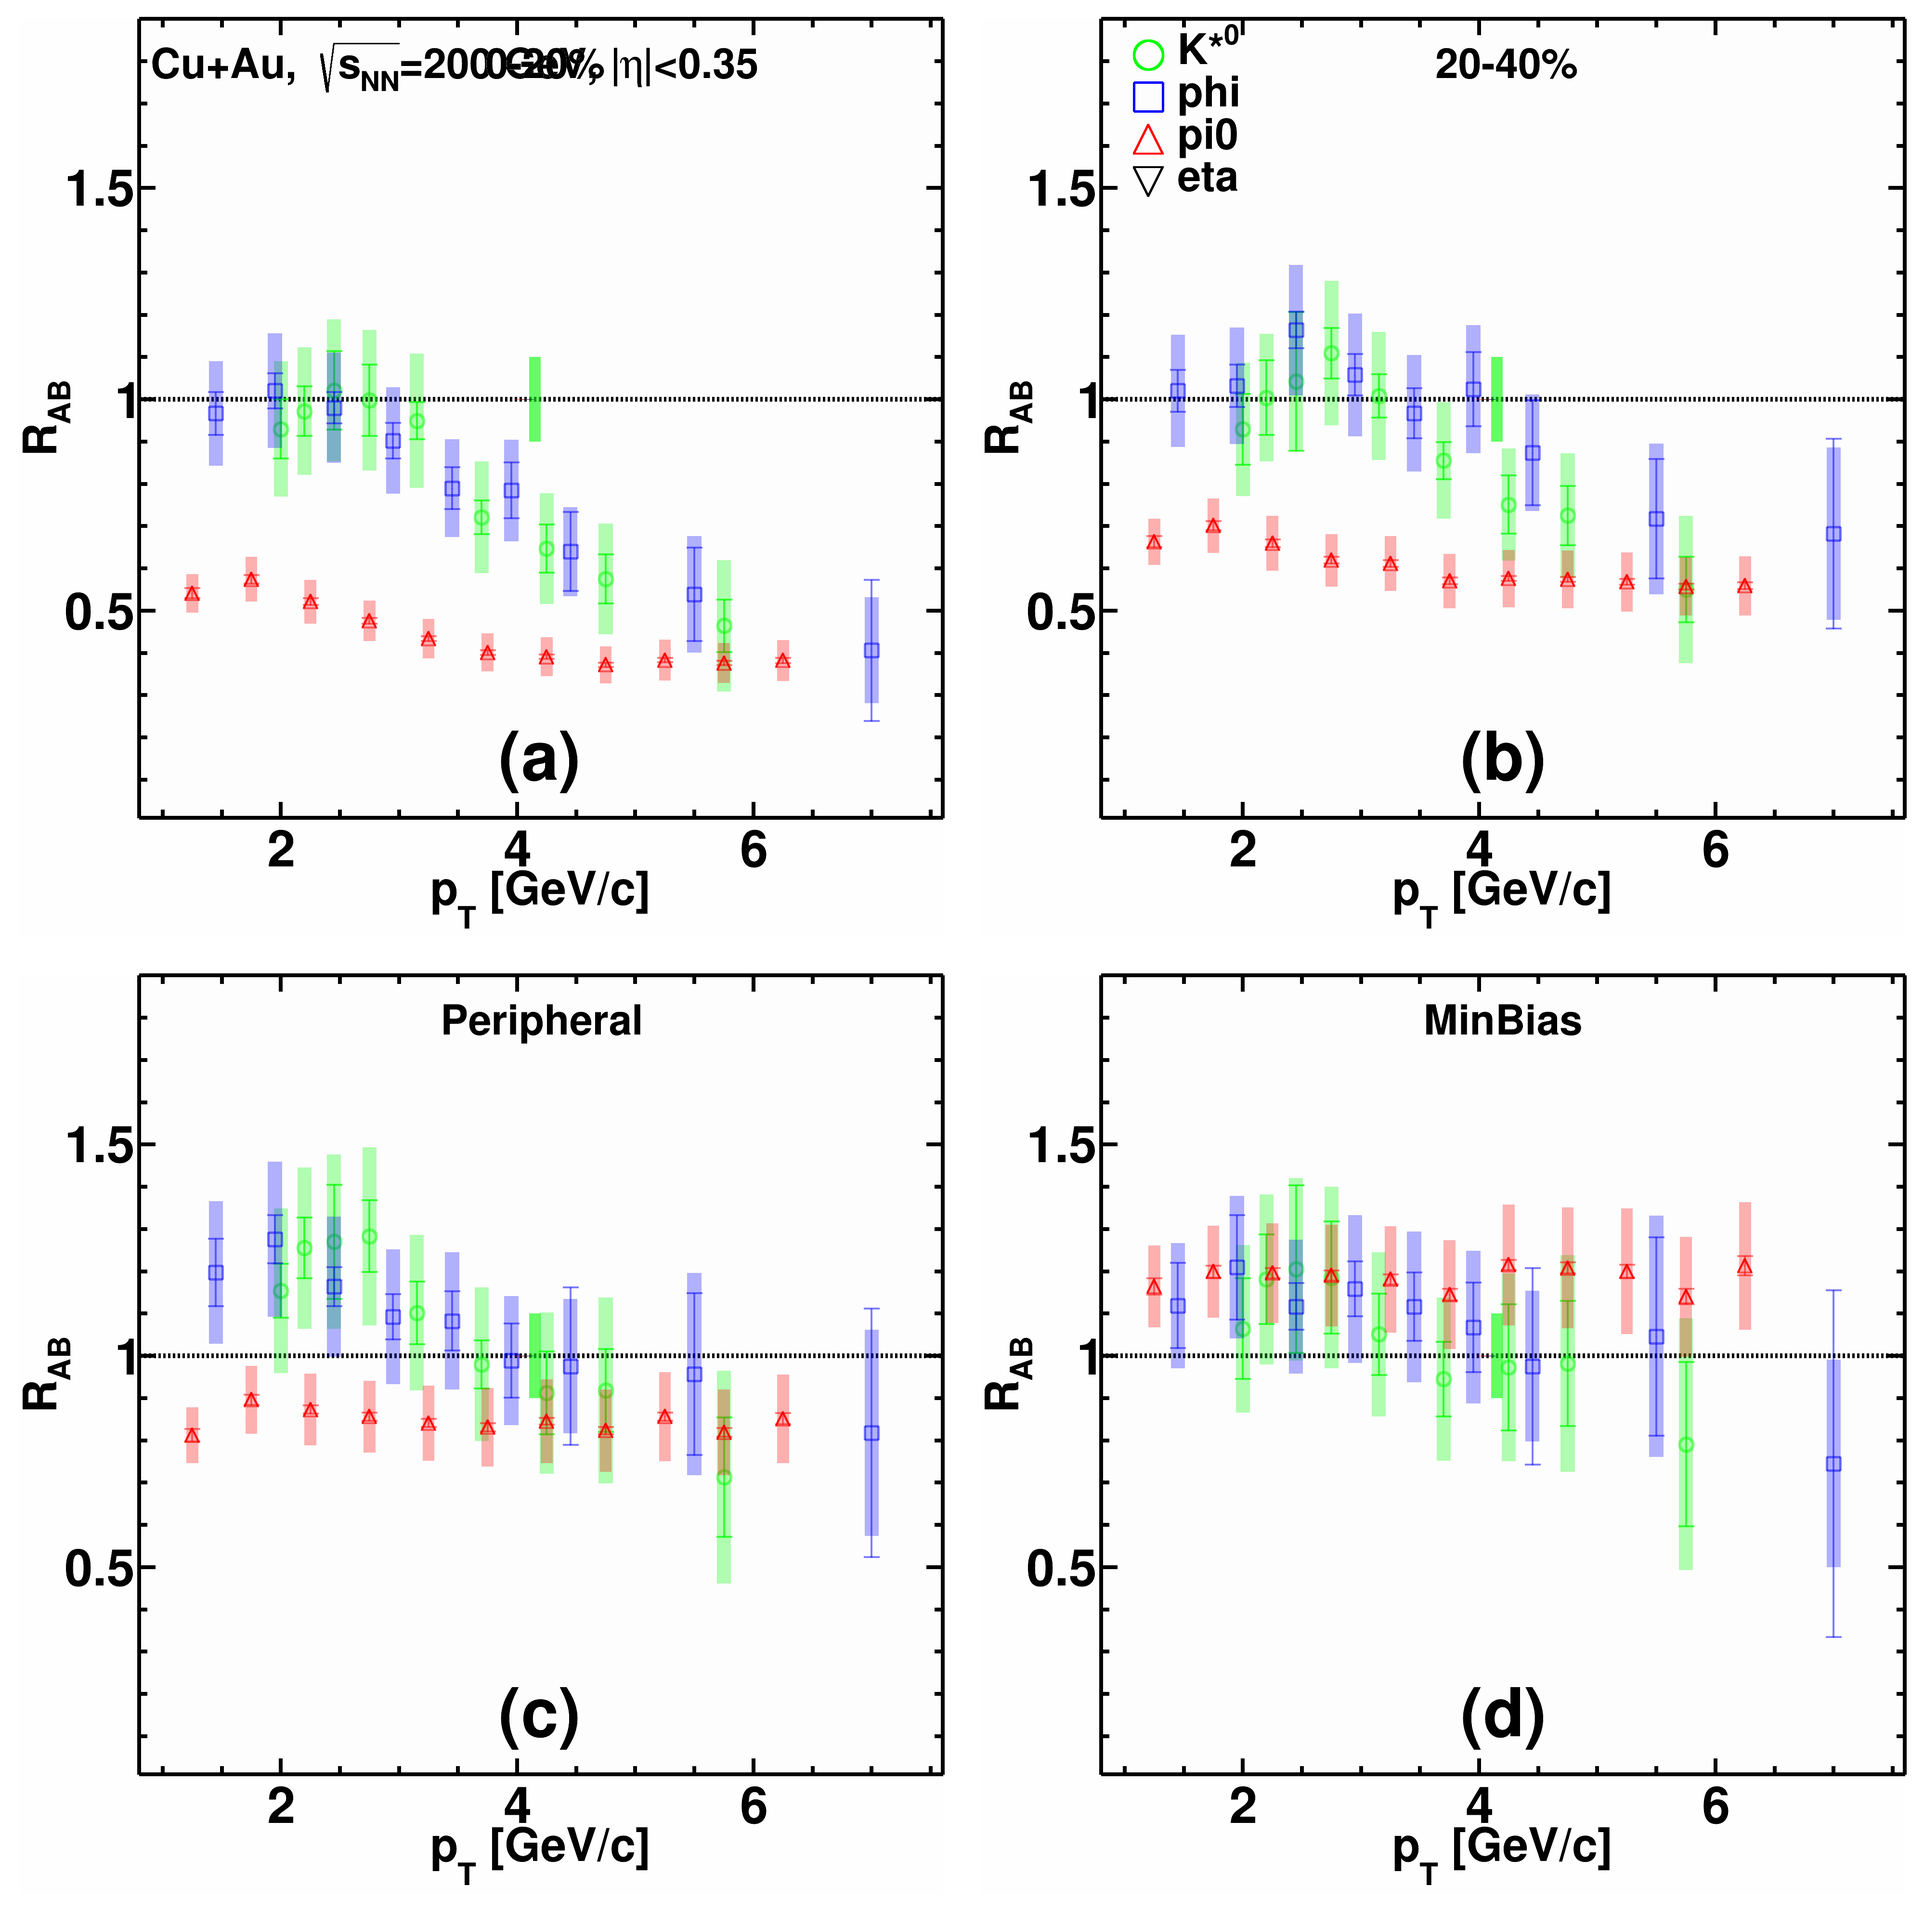
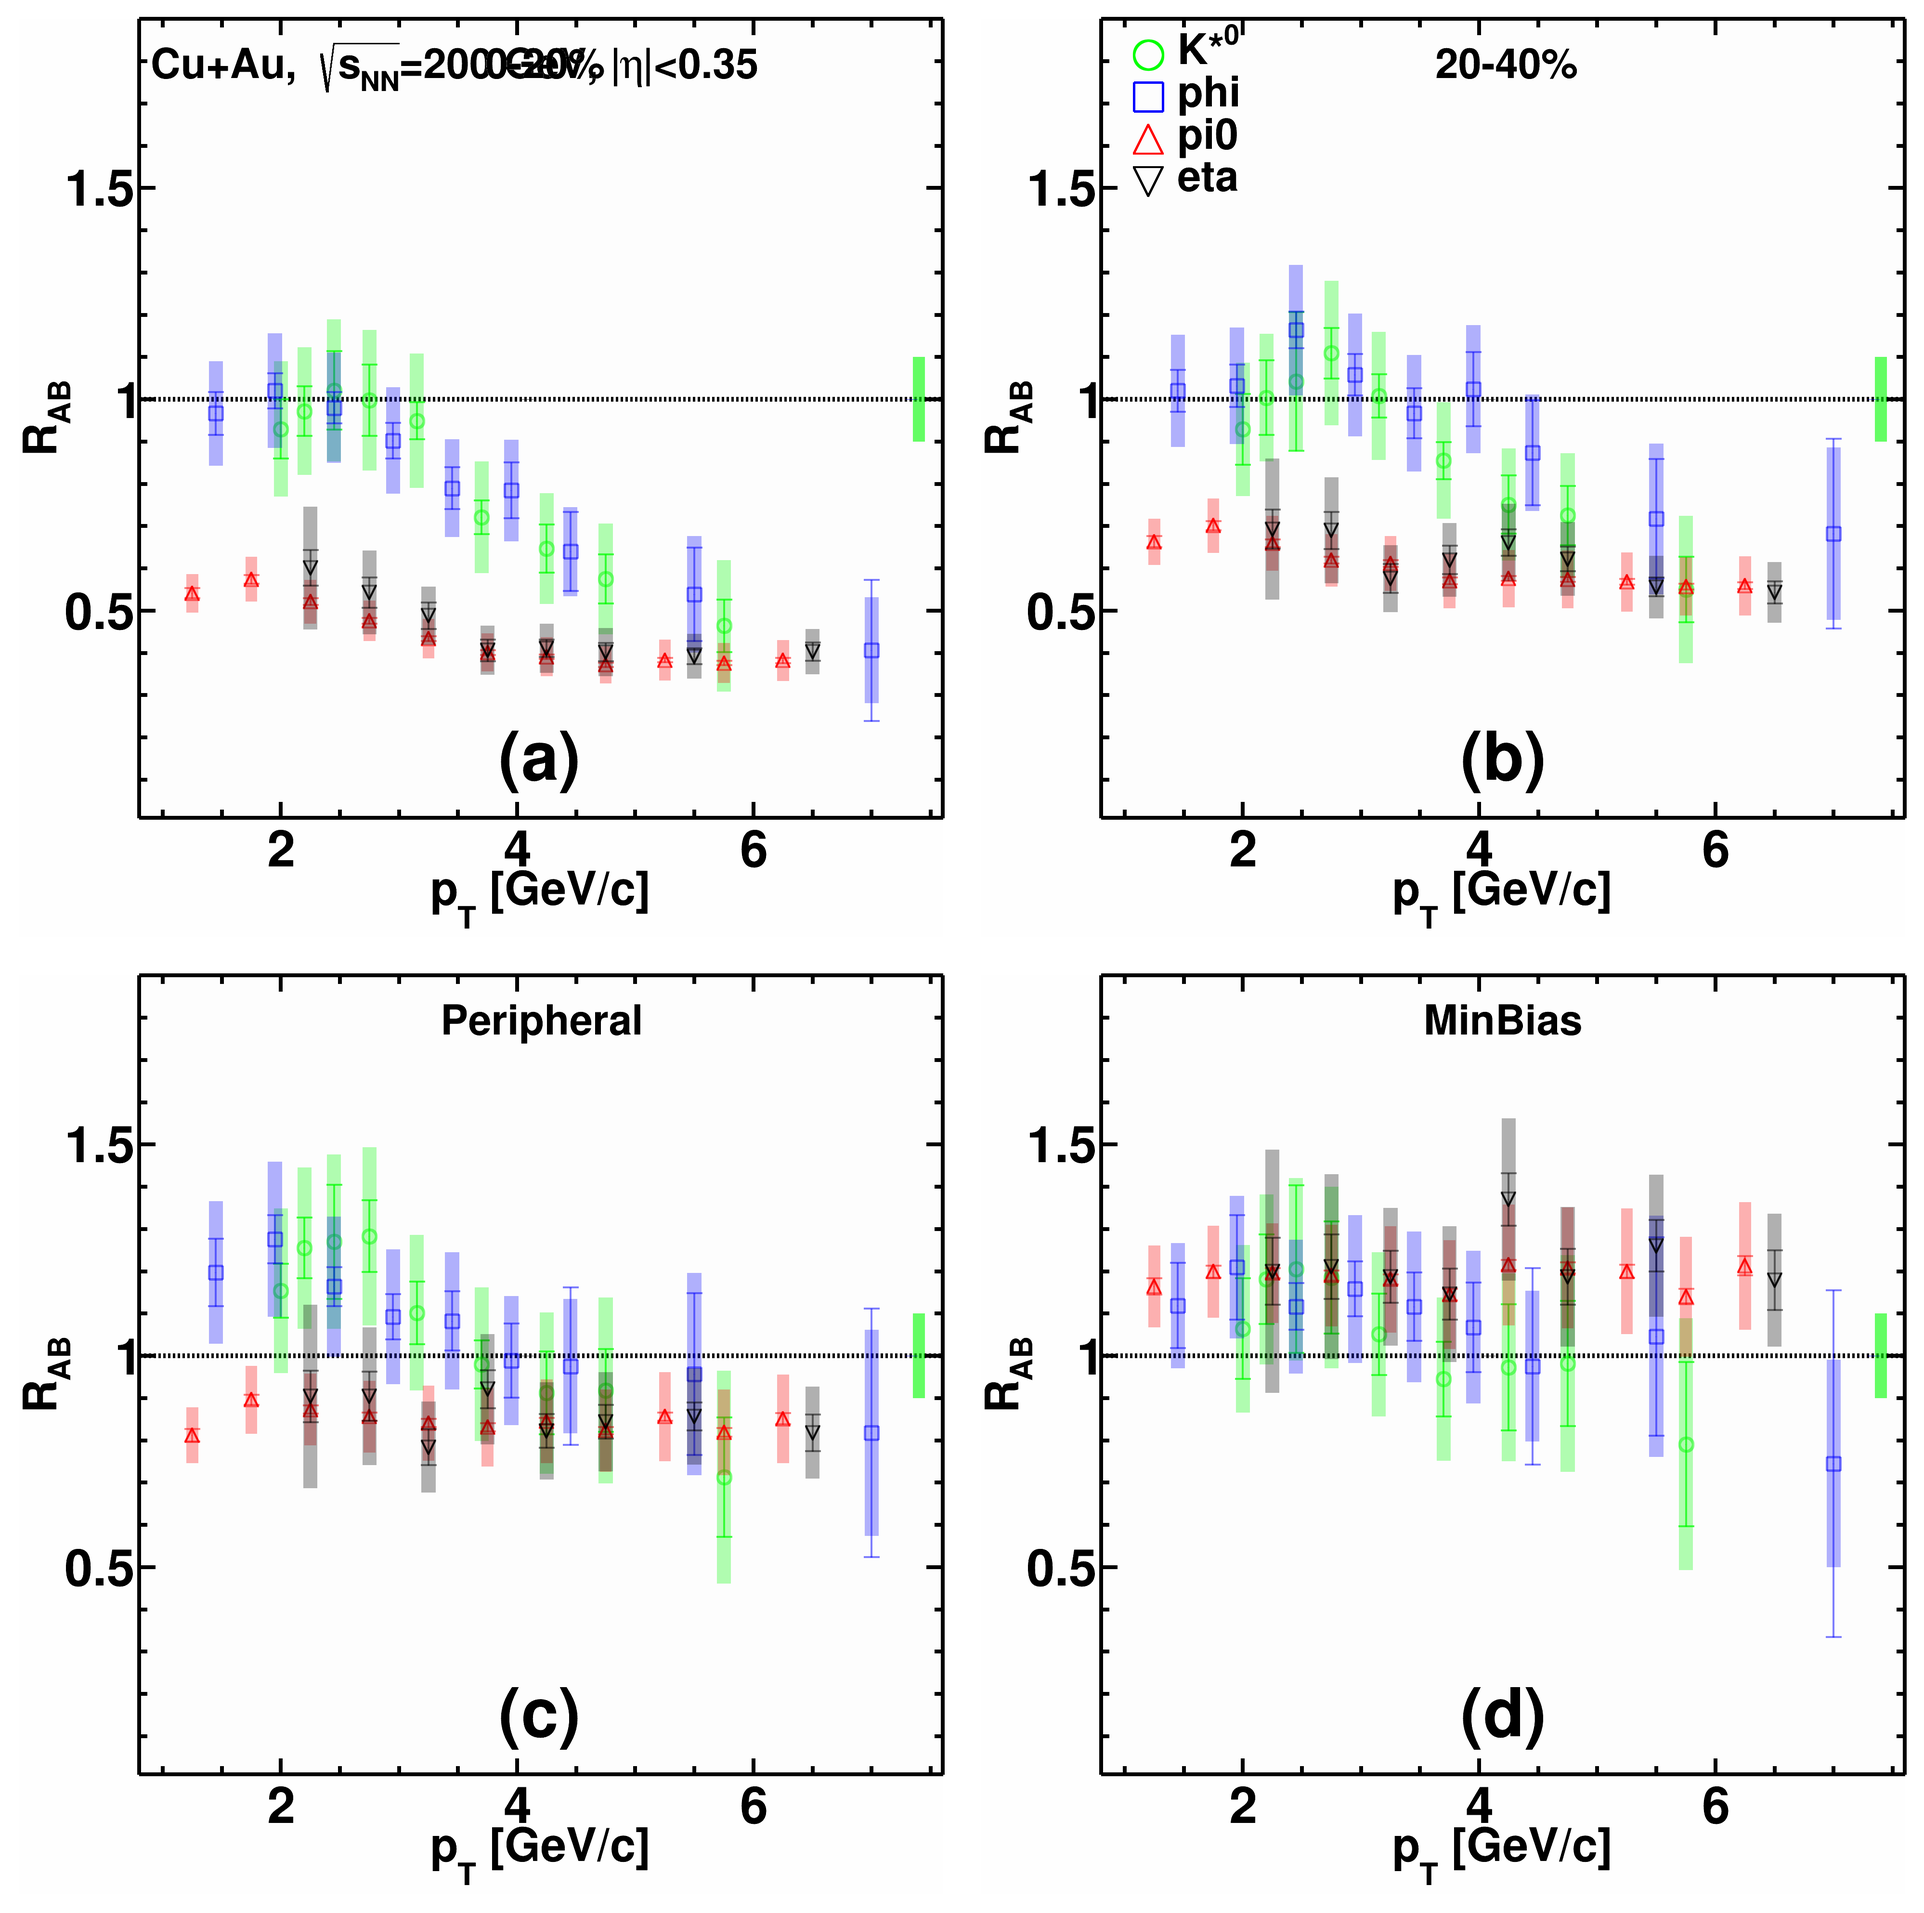
change particals (get for eta) change number of eta (in plotter) change rab_cuau_phi_pi_eta.png

diff --git a/Particles.cpp b/Particles.cpp
@@ -63,6 +63,10 @@ public:
 
     void set_independent_var_pi0(int i);
 
+    void get_rab_eta_cuau();
+    void get_rab_eta_uu();
+    void set_independent_var_eta(int i);
+
     void set_sys_errors();
 
     void get_integrated_rab();
@@ -167,6 +171,15 @@ Particles::Particles(const TString& part, int c, int n, Color_t col, Style_t mar
     set_independent_var_pi0(4);
     get_rab_pi0_pal();
   }
+
+  else if (part == "rab_eta_cuau") {
+      set_independent_var_eta(0);
+      get_rab_eta_cuau();
+  } else if (part == "rab_eta_uu") {
+      set_independent_var_eta(1);
+      get_rab_eta_uu();
+  }
+
 };
 
 
@@ -351,6 +364,8 @@ void Particles::set_independent_var_pi0(int i) {
   }
 }
 
+
+
 void Particles::get_rab_pi0_cuau() {
   for (int i = 0; i < 3; ++i) {
     for (int j = 0; j < _cen; ++j) {
@@ -400,6 +415,45 @@ void Particles::get_rab_pi0_pal() {
     }
   }
 }
+
+
+void Particles::set_independent_var_eta(int i) {
+    /*for (int l = 0; l < _cen; ++l) {
+      typec[l] = typec_kstar[i][l];
+    }
+    for (int l = 0; l < _cen; ++l) {
+      npart[l] = npart_kstar[i][l];
+    }*/
+    for (int l = 0; l < _n; ++l) {
+        pt[l] = pt_eta[i][l];
+    }
+}
+
+void Particles::get_rab_eta_cuau() {
+    for (int i = 0; i < 3; ++i) {
+        for (int j = 0; j < _cen; ++j) {
+            for (int k = 0; k < _n; ++k) {
+                rab[i][j][k] = rab_eta_cuau[i][j][k];
+            }
+        }
+    }
+}
+
+void Particles::get_rab_eta_uu() {
+    for (int i = 0; i < 3; ++i) {
+        for (int j = 0; j < _cen; ++j) {
+            for (int k = 0; k < _n; ++k) {
+                rab[i][j][k] = rab_eta_uu[i][j][k];
+            }
+        }
+    }
+}
+
+
+
+
+
+
 
 //== integrated_rab ==//
 void Particles::get_integrated_rab() {

diff --git a/plotter.cpp b/plotter.cpp
@@ -1161,7 +1161,7 @@ void plotter_rab_cuau_phi_pi_eta() {
     kstar_pi0_cuau->rab_format_graph_sys(0.05, 10, 0.3);
     kstar_pi0_cuau->type_c_format(7.28, 0.05);
 
-    auto kstar_eta_cuau = new Particles("rab_eta_cuau", 4, n_eta_cuau, kBlack, 95);
+    auto kstar_eta_cuau = new Particles("rab_eta_cuau", 4, n_eta_cuau-2, kBlack, 95);
     kstar_pi0_cuau->set_sys_errors();
     kstar_eta_cuau->rab_format_graph(4, 4, 0.5);
     kstar_eta_cuau->rab_format_graph_sys(0.06, 10, 0.3);
